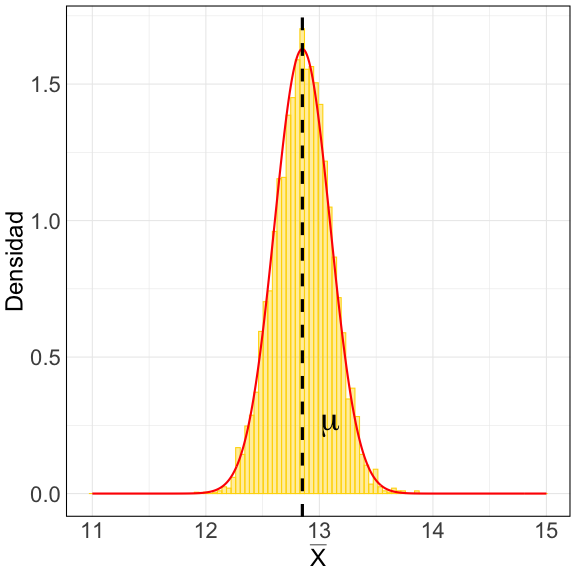
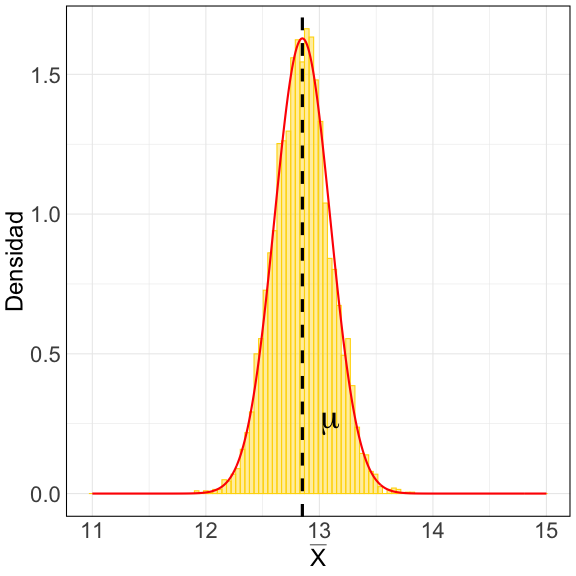
Update

diff --git a/slides/class_11/class_11.html b/slides/class_11/class_11.html
@@ -63,16 +63,16 @@ class: inverse, center, middle
 ## # A tibble: 100 × 3
 ##    year   educ   age
 ##    &lt;fct&gt; &lt;dbl&gt; &lt;dbl&gt;
-##  1 2010     12    58
-##  2 1978     12    27
-##  3 1982     20    55
-##  4 1984     10    82
-##  5 1978     15    43
-##  6 1982     12    23
-##  7 2016     14    27
-##  8 2014     13    57
-##  9 2006     10    24
-## 10 2008      7    44
+##  1 2010     14    61
+##  2 2010     12    21
+##  3 2016     12    73
+##  4 2014     13    21
+##  5 1987     15    47
+##  6 1993     14    27
+##  7 1991     13    39
+##  8 2014     15    67
+##  9 2012     14    42
+## 10 2014     15    22
 ## # ℹ 90 more rows
 ```
 ]
@@ -134,17 +134,17 @@ En resumen:
 
 ```
 ##   year educ age
-## 1 2010   12  58
-## 2 1978   12  27
-## 3 1982   20  55
-## 4 1984   10  82
-## 5 1978   15  43
-## 6 1982   12  23
+## 1 2010   14  61
+## 2 2010   12  21
+## 3 2016   12  73
+## 4 2014   13  21
+## 5 1987   15  47
+## 6 1993   14  27
 ```
 
 ```
 ## mu_hat 
-##  13.64
+##   13.3
 ```
 ]
 
@@ -247,21 +247,21 @@ La colección de estimados se ve así:
 ## # A tibble: 5,000 × 1
 ##    estimado
 ##       &lt;dbl&gt;
-##  1     12.9
-##  2     13.1
-##  3     12.9
-##  4     13.1
-##  5     12.8
-##  6     13.0
-##  7     12.9
-##  8     12.7
-##  9     12.9
-## 10     12.6
-## 11     12.5
-## 12     12.6
+##  1     13.1
+##  2     13.0
+##  3     12.6
+##  4     12.9
+##  5     12.9
+##  6     12.8
+##  7     13.4
+##  8     12.4
+##  9     12.6
+## 10     12.5
+## 11     13.0
+## 12     13.0
 ## 13     12.8
 ## 14     13.0
-## 15     12.9
+## 15     13.3
 ## # ℹ 4,985 more rows
 ```
 ]
@@ -293,21 +293,21 @@ La colección de estimados se ve así:
 ## # A tibble: 5,000 × 1
 ##    estimado
 ##       &lt;dbl&gt;
-##  1     12.9
-##  2     13.1
-##  3     12.9
-##  4     13.1
-##  5     12.8
-##  6     13.0
-##  7     12.9
-##  8     12.7
-##  9     12.9
-## 10     12.6
-## 11     12.5
-## 12     12.6
+##  1     13.1
+##  2     13.0
+##  3     12.6
+##  4     12.9
+##  5     12.9
+##  6     12.8
+##  7     13.4
+##  8     12.4
+##  9     12.6
+## 10     12.5
+## 11     13.0
+## 12     13.0
 ## 13     12.8
 ## 14     13.0
-## 15     12.9
+## 15     13.3
 ## # ℹ 4,985 more rows
 ```
 ]
@@ -392,7 +392,7 @@ class: inverse, center, middle
 Por ejemplo:
 
 
-`\(\bar{X}_{200}\)` =  13.64
+`\(\bar{X}_{200}\)` =  13.3
 
 &lt;br&gt;
 
